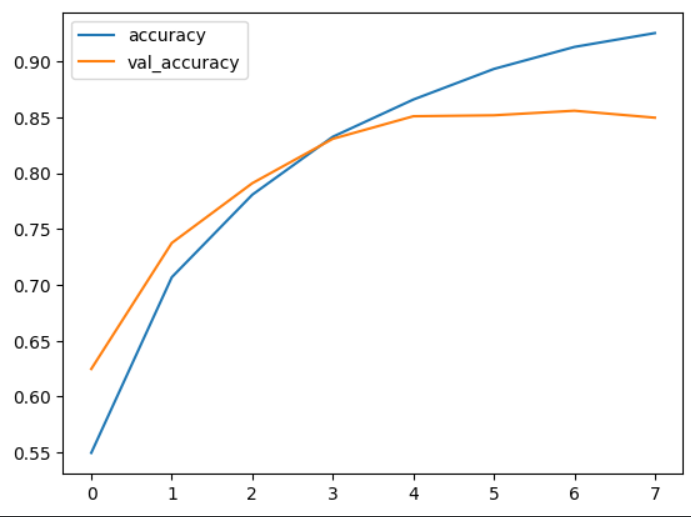
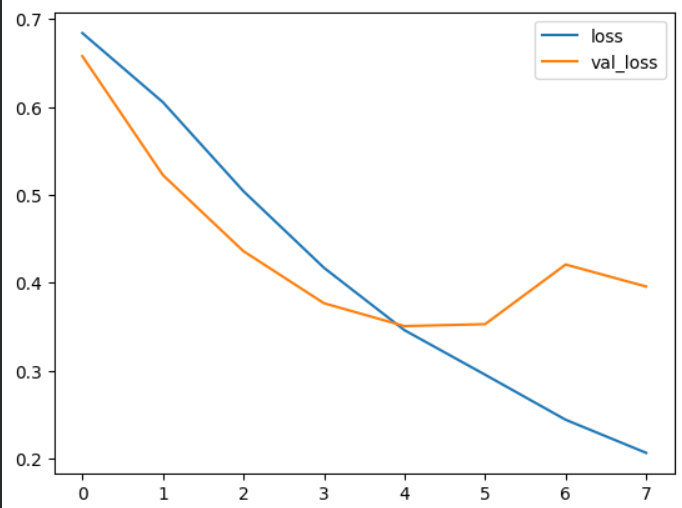
feature

diff --git a/cnn-dogs-cats.html b/cnn-dogs-cats.html
@@ -363,11 +363,20 @@
                     have the best parameter number for the Dropout method. With a 0.5 parameter, 50% of the input is deactivated. This hight number can be messy 
                     this small network. Let's try with 0.4 parameter for the Dropout.
                     
+                    <img src="assets\image\graph_4.png" alt="illustration of the dropout method (0.5)" style="max-width: 70%; border-radius: 5px; margin: 1rem 0;">
+                    Aa you can see, the curve is a little different than the one with a 0.5 of Dropout. But we have an overfitting in the fouth epoch, like 
+                    the previous one. 
 
+                    So the dropout technics is interesting and give us some amelioration for or model, but we need to test another technics. 
+                        
                     </p> 
 
                     <h3>Using L2 Regularisation </h3>
-
+                    The L2 Regularisation will, like the dropout, work during the training phase. The main objective here is to reduce the variance, by playing 
+                    with bias during training phase. 
+                    <br>
+                    The main objective here is to add penalty to weights in order to ajust the model during th testing phase. We will slightly increase the 
+                    bias in order to reduce the variance. 
 
                     <h3>Using Data Augmentation</h3>
 
